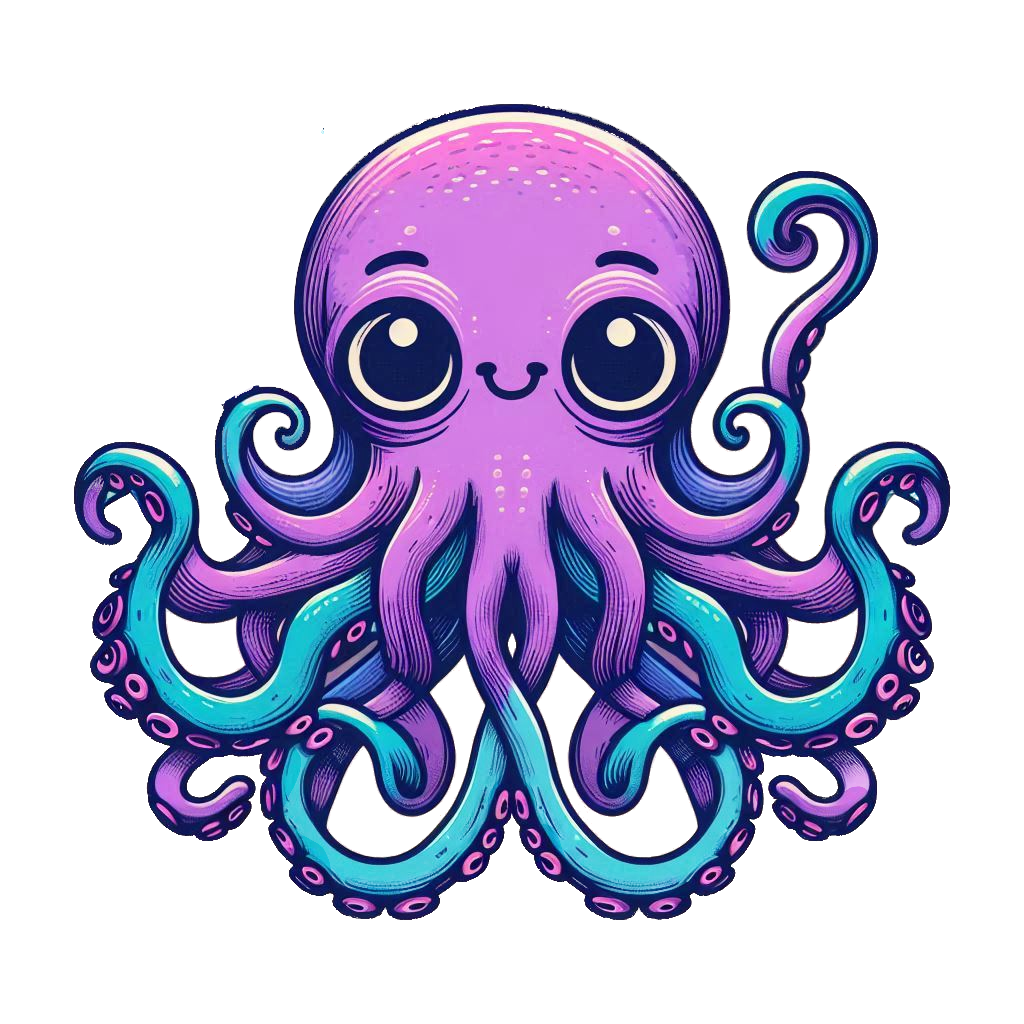
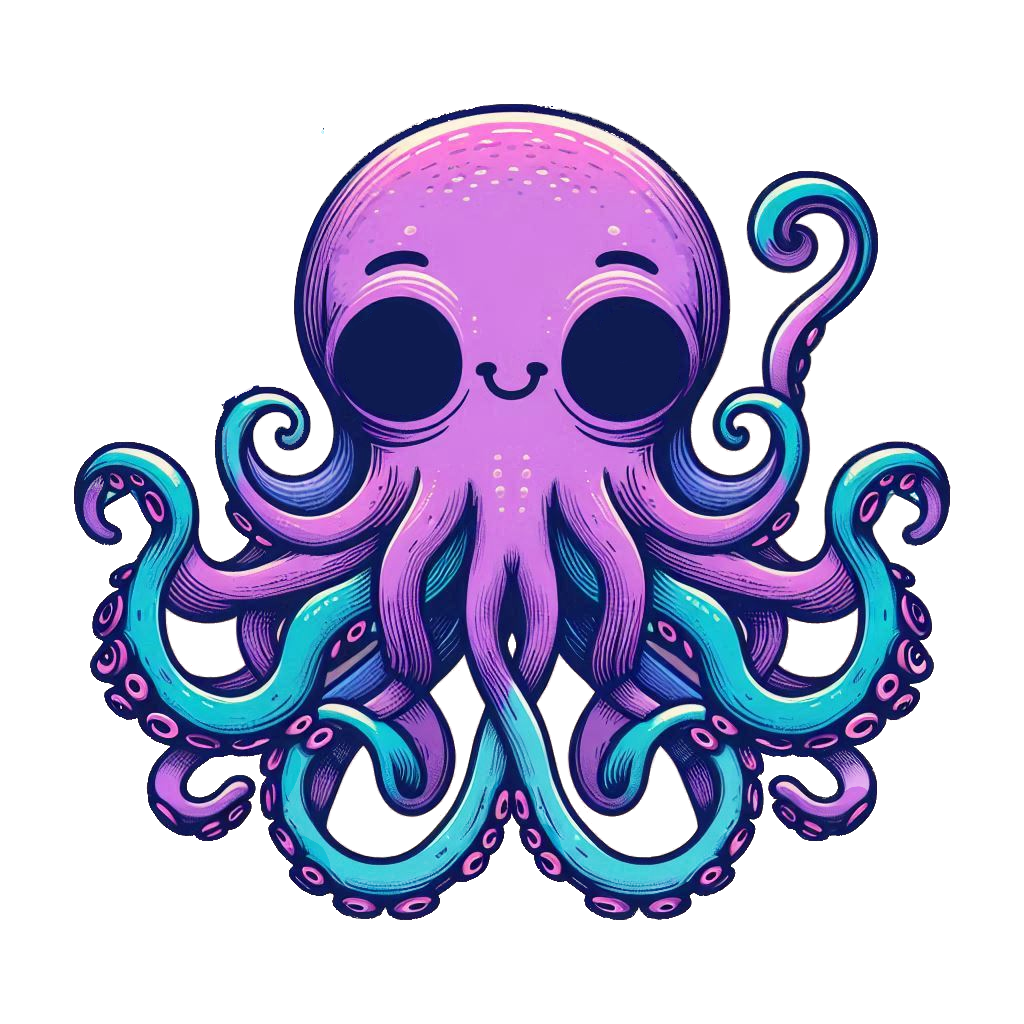
Fixed overlapping white shine through bug

diff --git a/components/Octopus.tsx b/components/Octopus.tsx
@@ -53,7 +53,7 @@ const Octopus = () => {
       ctx.fillStyle = "#f3e3d3"
       // ctx.strokeStyle = "#0f1b55"
       ctx.beginPath()
-      ctx.arc(cx, cy, eyeballRadius + overlap, 0, Math.PI * 2)
+      ctx.arc(cx, cy, eyeballRadius, 0, Math.PI * 2)
       ctx.fill()
       ctx.stroke()
       
@@ -74,7 +74,7 @@ const Octopus = () => {
       ctx.drawImage(image, 0, 0, canvas.width, canvas.height)
       ctx.beginPath()
       eyes.forEach((eye) => {
-        ctx.arc(eye.cx, eye.cy, eye.eyeballRadius, 0, Math.PI * 2)
+        ctx.arc(eye.cx, eye.cy, eye.eyeballRadius + 1, 0, Math.PI * 2)
       })
       ctx.clip()
       eyes.forEach((eye) => drawEye(eye, mouseX, mouseY))
